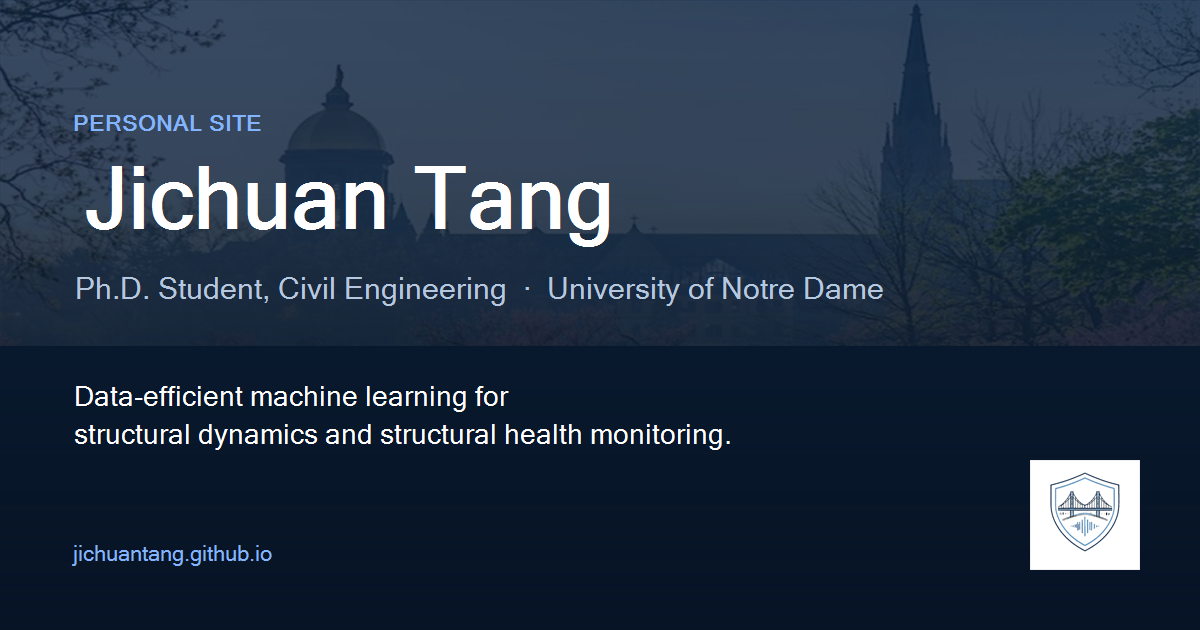
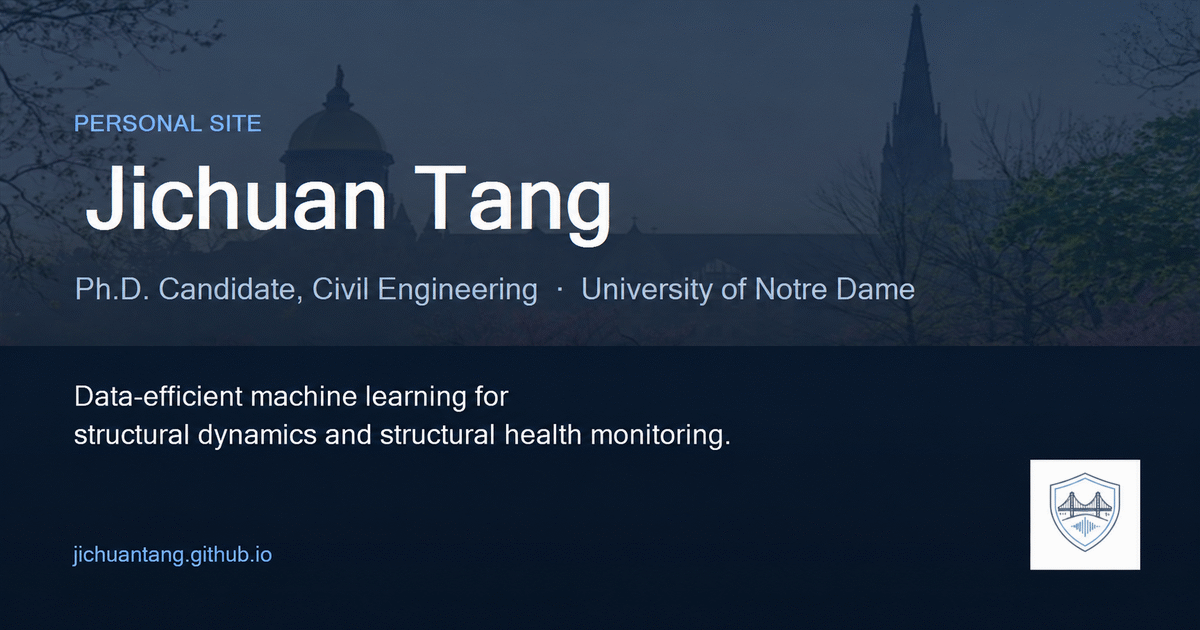
Add gallery and update social card

diff --git a/gallery.html b/gallery.html
@@ -1,0 +1,126 @@
+<!DOCTYPE html>
+<html lang="en">
+
+<head>
+   <meta charset="utf-8">
+   <meta http-equiv="X-UA-Compatible" content="IE=edge">
+   <meta name="viewport" content="width=device-width, initial-scale=1">
+
+   <link rel="preconnect" href="https://fonts.googleapis.com">
+   <link rel="preconnect" href="https://fonts.gstatic.com" crossorigin>
+   <link rel="dns-prefetch" href="https://stackpath.bootstrapcdn.com">
+
+   <meta name="description" content="Selected photographs from Jichuan Tang's conference talks and academic activities.">
+   <title>Gallery · Jichuan Tang</title>
+
+   <meta property="og:title" content="Gallery · Jichuan Tang">
+   <meta property="og:description" content="Selected photographs from conference talks and academic activities.">
+   <meta property="og:image" content="https://jichuantang.github.io/img/og-card.png">
+   <meta property="og:url" content="https://jichuantang.github.io/gallery.html">
+   <link rel="canonical" href="https://jichuantang.github.io/gallery.html">
+   <meta property="og:type" content="website">
+   <meta name="twitter:card" content="summary_large_image">
+   <meta name="twitter:title" content="Gallery · Jichuan Tang">
+   <meta name="twitter:description" content="Selected photographs from conference talks and academic activities.">
+   <meta name="twitter:image" content="https://jichuantang.github.io/img/og-card.png">
+
+   <link rel="apple-touch-icon" sizes="180x180" href="favicons/apple-icon-180x180.png">
+   <link rel="icon" type="image/png" sizes="32x32" href="favicons/favicon-32x32.png">
+   <link rel="icon" type="image/png" sizes="16x16" href="favicons/favicon-16x16.png">
+   <meta name="theme-color" content="#0c2340">
+
+   <link rel="stylesheet" href="https://stackpath.bootstrapcdn.com/bootstrap/3.4.1/css/bootstrap.min.css" integrity="sha384-HSMxcRTRxnN+Bdg0JdbxYKrThecOKuH5zCYotlSAcp1+c8xmyTe9GYg1l9a69psu" crossorigin="anonymous">
+   <link href="https://fonts.googleapis.com/css2?family=Inter:wght@400;600&display=swap" rel="stylesheet">
+   <link rel="stylesheet" href="https://use.fontawesome.com/releases/v5.8.1/css/all.css" integrity="sha384-50oBUHEmvpQ+1lW4y57PTFmhCaXp0ML5d60M1M7uH2+nqUivzIebhndOJK28anvf" crossorigin="anonymous">
+   <link rel="stylesheet" href="css/main.css">
+
+   <script>
+     (function(){var t=localStorage.getItem('theme');if(t==='dark'||(!t&&matchMedia('(prefers-color-scheme:dark)').matches))document.documentElement.setAttribute('data-theme','dark');})()
+   </script>
+</head>
+
+<body id="top" class="wide-page">
+   <a class="skip-link" href="#main">Skip to main content</a>
+
+   <div w3-include-html="navbar.html"></div>
+
+   <div class="spacer-div-3 hidden-xs"></div>
+
+   <main id="main" tabindex="-1">
+   <div id="main-container" class="container">
+
+      <section class="section-card" aria-labelledby="gallery-title">
+         <h1 id="gallery-title">Gallery</h1>
+         <p class="gallery-intro">Selected moments from conference talks and academic activities. Click any photograph to view the full-size image.</p>
+
+         <section class="gallery-group" id="gallery-emi-cvpr-2026" aria-labelledby="gallery-2026-title">
+            <div class="gallery-group-heading">
+               <h2 id="gallery-2026-title">EMI 2026 &amp; CVPR 2026</h2>
+               <span class="gallery-group-meta">Boulder and Denver, Colorado · June 2026</span>
+            </div>
+            <div class="gallery-grid">
+               <figure class="gallery-card">
+                  <a href="img/emi_2026_talk.jpg" target="_blank" rel="noopener noreferrer" aria-label="Open full-size photograph of the EMI 2026 talk">
+                     <img src="img/emi_2026_talk.jpg" alt="Jichuan Tang giving a talk at EMI 2026" width="1024" height="683" loading="lazy" decoding="async">
+                  </a>
+                  <figcaption>Presenting &ldquo;Reinforcement Learning for Active Solution Operators of Nonlinear Systems&rdquo; at EMI 2026.</figcaption>
+               </figure>
+
+               <figure class="gallery-card">
+                  <a href="img/emi_2026_intro.jpg" target="_blank" rel="noopener noreferrer" aria-label="Open full-size photograph of the EMI 2026 presentation">
+                     <img src="img/emi_2026_intro.jpg" alt="Jichuan Tang presenting introductory slides at EMI 2026" width="1024" height="683" loading="lazy" decoding="async">
+                  </a>
+                  <figcaption>Introducing the operator-learning framework during the EMI 2026 presentation.</figcaption>
+               </figure>
+
+               <figure class="gallery-card">
+                  <a href="img/cvpr_2026.jpg" target="_blank" rel="noopener noreferrer" aria-label="Open full-size CVPR 2026 photograph">
+                     <img class="gallery-photo-contain" src="img/cvpr_2026.jpg" alt="Jichuan Tang at the CVPR 2026 conference sign in Denver" width="1600" height="886" loading="lazy" decoding="async">
+                  </a>
+                  <figcaption>Attending the IEEE/CVF Conference on Computer Vision and Pattern Recognition (CVPR 2026) in Denver.</figcaption>
+               </figure>
+            </div>
+         </section>
+
+         <section class="gallery-group" id="gallery-emi-2025" aria-labelledby="gallery-2025-title">
+            <div class="gallery-group-heading">
+               <h2 id="gallery-2025-title">EMI 2025</h2>
+               <span class="gallery-group-meta">Anaheim, California · May 2025</span>
+            </div>
+            <div class="gallery-grid">
+               <figure class="gallery-card">
+                  <a href="img/emi_2025_presentation.jpg" target="_blank" rel="noopener noreferrer" aria-label="Open full-size photograph of the EMI 2025 presentation">
+                     <img src="img/emi_2025_presentation.jpg" alt="Jichuan Tang presenting at EMI 2025" width="1824" height="1280" loading="lazy" decoding="async">
+                  </a>
+                  <figcaption>Presenting spatio-temporal surrogate modeling research at EMI 2025.</figcaption>
+               </figure>
+
+               <figure class="gallery-card">
+                  <a href="img/emi_2025_group.png" target="_blank" rel="noopener noreferrer" aria-label="Open full-size EMI 2025 group photograph">
+                     <img class="gallery-photo-contain" src="img/emi_2025_group.png" alt="Group photograph at EMI 2025" width="1024" height="1536" loading="lazy" decoding="async">
+                  </a>
+                  <figcaption>Conference gathering at EMI 2025 in Anaheim.</figcaption>
+               </figure>
+            </div>
+         </section>
+      </section>
+
+   </div>
+   </main>
+
+   <a role="button" id="topper" data-toggle="tooltip" data-placement="top" title="Top" aria-label="Back to top" class="btn scroll-link" href="#top"><i class="fa fa-fw fa-2x fa-caret-up" aria-hidden="true"></i></a>
+
+   <div w3-include-html="footer.html"></div>
+
+   <script src="https://cdnjs.cloudflare.com/ajax/libs/jquery/3.3.1/jquery.min.js"></script>
+   <script src="https://stackpath.bootstrapcdn.com/bootstrap/3.4.1/js/bootstrap.min.js" integrity="sha384-aJ21OjlMXNL5UyIl/XNwTMqvzeRMZH2w8c5cRVpzpU8Y5bApTppSuUkhZXN0VxHd" crossorigin="anonymous"></script>
+   <script src="js/w3data.js"></script>
+   <script>w3IncludeHTML()</script>
+   <script src="js/main.js"></script>
+   <script>
+      $(document).ready(function() {
+         $("li#gallery a").addClass("active").addClass("hvr-bubble-bottom");
+      });
+   </script>
+</body>
+</html>

diff --git a/css/main.css b/css/main.css
@@ -420,11 +420,133 @@ body {
 }
 .news-card:hover .news-card-title { color: var(--link) !important; }
 
+.news-gallery-link {
+  margin-top: 0.75rem !important;
+  margin-bottom: 0 !important;
+  font-size: 0.9rem;
+  font-weight: 500;
+}
+
 @media (max-width: 767px) {
   .news-cards { grid-template-columns: 1fr 1fr; }
 }
 @media (max-width: 480px) {
   .news-cards { grid-template-columns: 1fr; }
+}
+
+/* === Gallery ============================================================
+   A consistent photo grid keeps event photography out of the News timeline
+   while preserving full-size originals behind each thumbnail. */
+.gallery-intro {
+  max-width: 52rem;
+  color: var(--muted);
+}
+
+.gallery-group {
+  margin-top: 2.5rem;
+}
+
+.gallery-group:first-of-type {
+  margin-top: 2rem;
+}
+
+.gallery-group-heading {
+  display: flex;
+  align-items: baseline;
+  justify-content: space-between;
+  gap: 1rem;
+  padding-bottom: 0.65rem;
+  margin-bottom: 1rem;
+  border-bottom: 1px solid var(--border);
+}
+
+.gallery-group-heading h2 {
+  margin-bottom: 0 !important;
+}
+
+.gallery-group-meta {
+  color: var(--muted);
+  font-size: 0.86rem;
+  white-space: nowrap;
+}
+
+.gallery-grid {
+  display: grid;
+  grid-template-columns: repeat(3, minmax(0, 1fr));
+  gap: 1.2rem;
+}
+
+.gallery-card {
+  margin: 0;
+  overflow: hidden;
+  border: 1px solid var(--border);
+  border-radius: 9px;
+  background: #fff;
+  box-shadow: var(--shadow-sm);
+  transition: transform 0.25s ease, box-shadow 0.25s ease, border-color 0.25s ease;
+}
+
+.gallery-card:hover {
+  transform: translateY(-4px);
+  border-color: var(--accent);
+  box-shadow: var(--shadow-lg);
+}
+
+.gallery-card > a {
+  display: block;
+  aspect-ratio: 3 / 2;
+  overflow: hidden;
+  border-bottom: 0 !important;
+  padding-bottom: 0 !important;
+  background: var(--panel);
+}
+
+.gallery-card > a:hover,
+.gallery-card > a:focus {
+  border-bottom: 0 !important;
+  padding-bottom: 0 !important;
+}
+
+.gallery-card img {
+  display: block;
+  width: 100%;
+  height: 100%;
+  object-fit: cover;
+  transition: transform 0.35s ease;
+}
+
+.gallery-card:hover img {
+  transform: scale(1.025);
+}
+
+.gallery-card img.gallery-photo-contain {
+  object-fit: contain;
+  background: var(--panel);
+}
+
+.gallery-card figcaption {
+  min-height: 4.5rem;
+  padding: 0.8rem 0.9rem 0.9rem;
+  color: var(--text);
+  font-size: 0.88rem;
+  line-height: 1.45;
+}
+
+@media (max-width: 900px) {
+  .gallery-grid { grid-template-columns: repeat(2, minmax(0, 1fr)); }
+}
+
+@media (max-width: 560px) {
+  .gallery-group-heading {
+    display: block;
+  }
+  .gallery-group-meta {
+    display: block;
+    margin-top: 0.25rem;
+    white-space: normal;
+  }
+  .gallery-grid { grid-template-columns: 1fr; }
+  .gallery-card figcaption { min-height: 0; }
 }
 
 /* Hash-anchor target highlight: when someone shares /publication.html#pub-deeponet
@@ -1696,12 +1818,15 @@ dd {
 
 /* Cards on dark: panel background, dim border, low-opacity shadow */
 [data-theme="dark"] .news-card,
-[data-theme="dark"] .priority-card {
+[data-theme="dark"] .priority-card,
+[data-theme="dark"] .gallery-card {
   background: var(--panel);
   border-color: var(--border);
 }
 [data-theme="dark"] .news-card-img,
-[data-theme="dark"] .priority-img {
+[data-theme="dark"] .priority-img,
+[data-theme="dark"] .gallery-card > a,
+[data-theme="dark"] .gallery-card img.gallery-photo-contain {
   background: var(--panel-tint);
 }
 [data-theme="dark"] .news-card-title,

diff --git a/news.html b/news.html
@@ -147,23 +147,13 @@
 
          <ul class="news-list">
 
-            <li class="news-entry has-thumbnail" id="news-emi-cvpr-2026">
-               <div class="news-images">
-                  <a href="img/emi_2026_talk.jpg" target="_blank" rel="noopener noreferrer">
-                     <img src="img/emi_2026_talk.jpg" alt="Giving the EMI 2026 talk at the University of Colorado Boulder" width="1024" height="683" loading="lazy">
-                  </a>
-                  <a href="img/emi_2026_intro.jpg" target="_blank" rel="noopener noreferrer">
-                     <img src="img/emi_2026_intro.jpg" alt="Presenting introductory slides during the EMI 2026 talk" width="1024" height="683" loading="lazy">
-                  </a>
-                  <a href="img/cvpr_2026.jpg" target="_blank" rel="noopener noreferrer">
-                     <img src="img/cvpr_2026.jpg" alt="At the CVPR 2026 conference sign in Denver, Colorado" width="1600" height="881" loading="lazy">
-                  </a>
-               </div>
+            <li class="news-entry" id="news-emi-cvpr-2026">
                <div class="news-body">
                   <div class="news-date">June 2026</div>
                   <h2 class="news-title">EMI 2026 talk &amp; CVPR 2026</h2>
                   <p>Gave a talk, &ldquo;Reinforcement Learning for Active Solution Operators of Nonlinear Systems&rdquo;, at the 2026 Engineering Mechanics Institute Conference (EMI 2026), hosted by the University of Colorado Boulder, June 2&ndash;5, 2026.</p>
                   <p>Also attended the IEEE/CVF Conference on Computer Vision and Pattern Recognition (CVPR 2026) in Denver, Colorado.</p>
+                  <p class="news-gallery-link"><a href="gallery.html#gallery-emi-cvpr-2026">View conference photos <span aria-hidden="true">&rarr;</span></a></p>
                </div>
             </li>
 
@@ -193,19 +183,12 @@
                </div>
             </li>
 
-            <li class="news-entry has-thumbnail" id="news-emi-2025">
-               <div class="news-images">
-                  <a href="img/emi_2025_presentation.jpg" target="_blank" rel="noopener noreferrer">
-                     <img src="img/emi_2025_presentation.jpg" alt="Presenting at EMI 2025" width="1824" height="1280" loading="lazy">
-                  </a>
-                  <a href="img/emi_2025_group.png" target="_blank" rel="noopener noreferrer">
-                     <img src="img/emi_2025_group.png" alt="Group photo at EMI 2025" width="1024" height="1536" loading="lazy">
-                  </a>
-               </div>
+            <li class="news-entry" id="news-emi-2025">
                <div class="news-body">
                   <div class="news-date">May 2025</div>
                   <h2 class="news-title">EMI 2025 — conference talk</h2>
                   <p>Presented &ldquo;Using deep operators to create spatio-temporal surrogates for dynamical systems under uncertainty&rdquo; at the Engineering Mechanics Institute Conference (EMI 2025), Anaheim, CA. Especially meaningful to have both my master's advisor Prof. Ning Li (Tianjin University) and my Ph.D. advisor Prof. Patrick Brewick (Notre Dame) there together — it means a lot.</p>
+                  <p class="news-gallery-link"><a href="gallery.html#gallery-emi-2025">View conference photos <span aria-hidden="true">&rarr;</span></a></p>
                </div>
             </li>
 

diff --git a/navbar.html b/navbar.html
@@ -21,6 +21,7 @@
                <li id="research"><a class="montserrat" href="research.html">Research</a></li>
                <li id="news"><a class="montserrat" href="news.html">News</a></li>
                <li id="publication"><a class="montserrat" href="publication.html">Publications</a></li>
+               <li id="gallery"><a class="montserrat" href="gallery.html">Gallery</a></li>
                <li><a href="#" id="theme-toggle" aria-label="Toggle dark mode" title="Toggle theme"><i class="fas fa-moon" aria-hidden="true"></i></a></li>
             </ul>
          </div>
